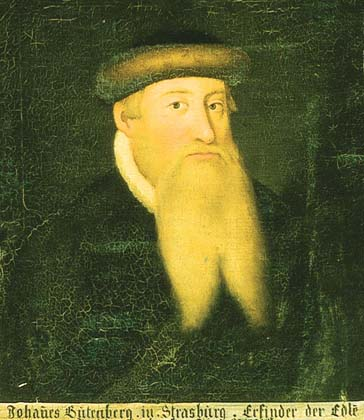
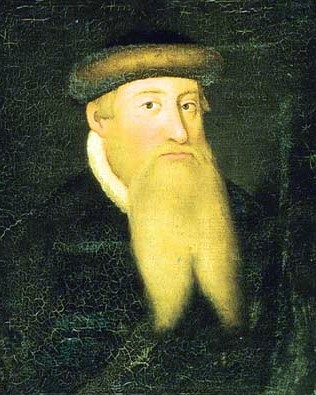
changed layout of the persons cropped the images for right proportion image enchantment

diff --git a/trunk/css/map8.css b/trunk/css/map8.css
@@ -125,11 +125,11 @@ body.grey .background {
 #persons>section>a {
 	position: absolute;
 	bottom: -20px;
-	width: 200px;
+	width: 240px;
 	height: 24px;
 	margin: 0 auto;
 	left: 50%;
-	margin-left: -100px;
+	margin-left: -120px;
 }
 
 #persons>section,#persons>section>section {
